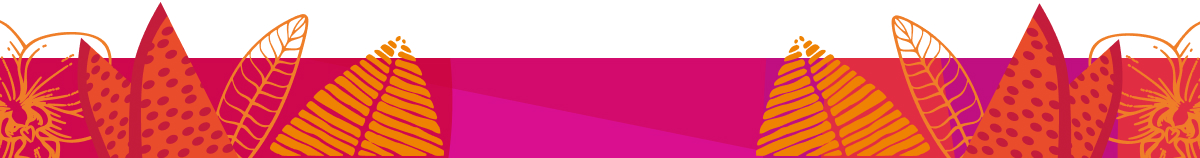
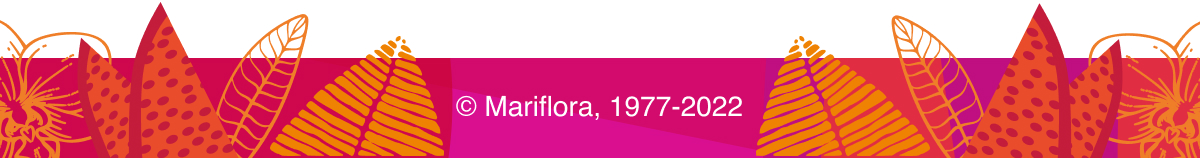
Правка верстки письма

Changed region(s): [[0.37, 0.6076, 0.6167, 0.7342]]

diff --git a/letter/letter.html b/letter/letter.html
@@ -1,5 +1,7 @@
 <div style="width: 600px; margin: 0 auto; background-color: #FFFFFF; font-family: 'Helvetica'; box-sizing: border-box; color: #050606; font-weight: normal;">
-    <div style="width: 100%;height:10px;background-image: url('https://anastasijamk.github.io/JMP/img/letter_top.jpg');background-repeat: no-repeat;background-position: center;background-size: contain;"></div>
+    <div style="width: 100%;height:10px;">
+        <img src="https://anastasijamk.github.io/JMP/img/letter_top.jpg" alt="Mariflora" style="width:100%;">
+    </div>
     <div style="padding:20px 30px;border-bottom:1px solid #F2F3F5;">
         <div style="display: table;">
             <div style="display: table-cell;vertical-align: middle;width: 100%;">
@@ -195,7 +197,7 @@
         <p style="font-weight: 300;font-size: 12px;line-height: 18px;color: #96A3AE;margin: 0 0 10px 0;">Вы получили это письмо, потому что оформили заказ на сайте Mariflora. Данное письмо не требует ответа.</p>
         <p style="font-weight: 300;font-size: 12px;line-height: 18px;color: #96A3AE;margin: 0 0 40px 0;">ООО «Mariflora»; 123112, г. Москва, 	Красная Сосна д.2к1с1; ОГРН  1325739242749.</p>
     </div>
-    <div style="height: 79px;text-align: center;background-image: url('https://anastasijamk.github.io/JMP/img/letter_footer_bg.jpg');background-size: contain;background-repeat: no-repeat;background-position: center;">
-        <span style="font-size: 14px;line-height: 16px;color: #FFFFFF;padding-top: 45px;display: block;">© Mariflora, 1977-2022</span>
+    <div style="height: 79px;text-align: center; position:relative;">
+        <img src="https://anastasijamk.github.io/JMP/img/letter_footer_bg.jpg" alt="Mariflora" style="position: absolute; top:0; left:0; width:100%;">
     </div>
 </div>
